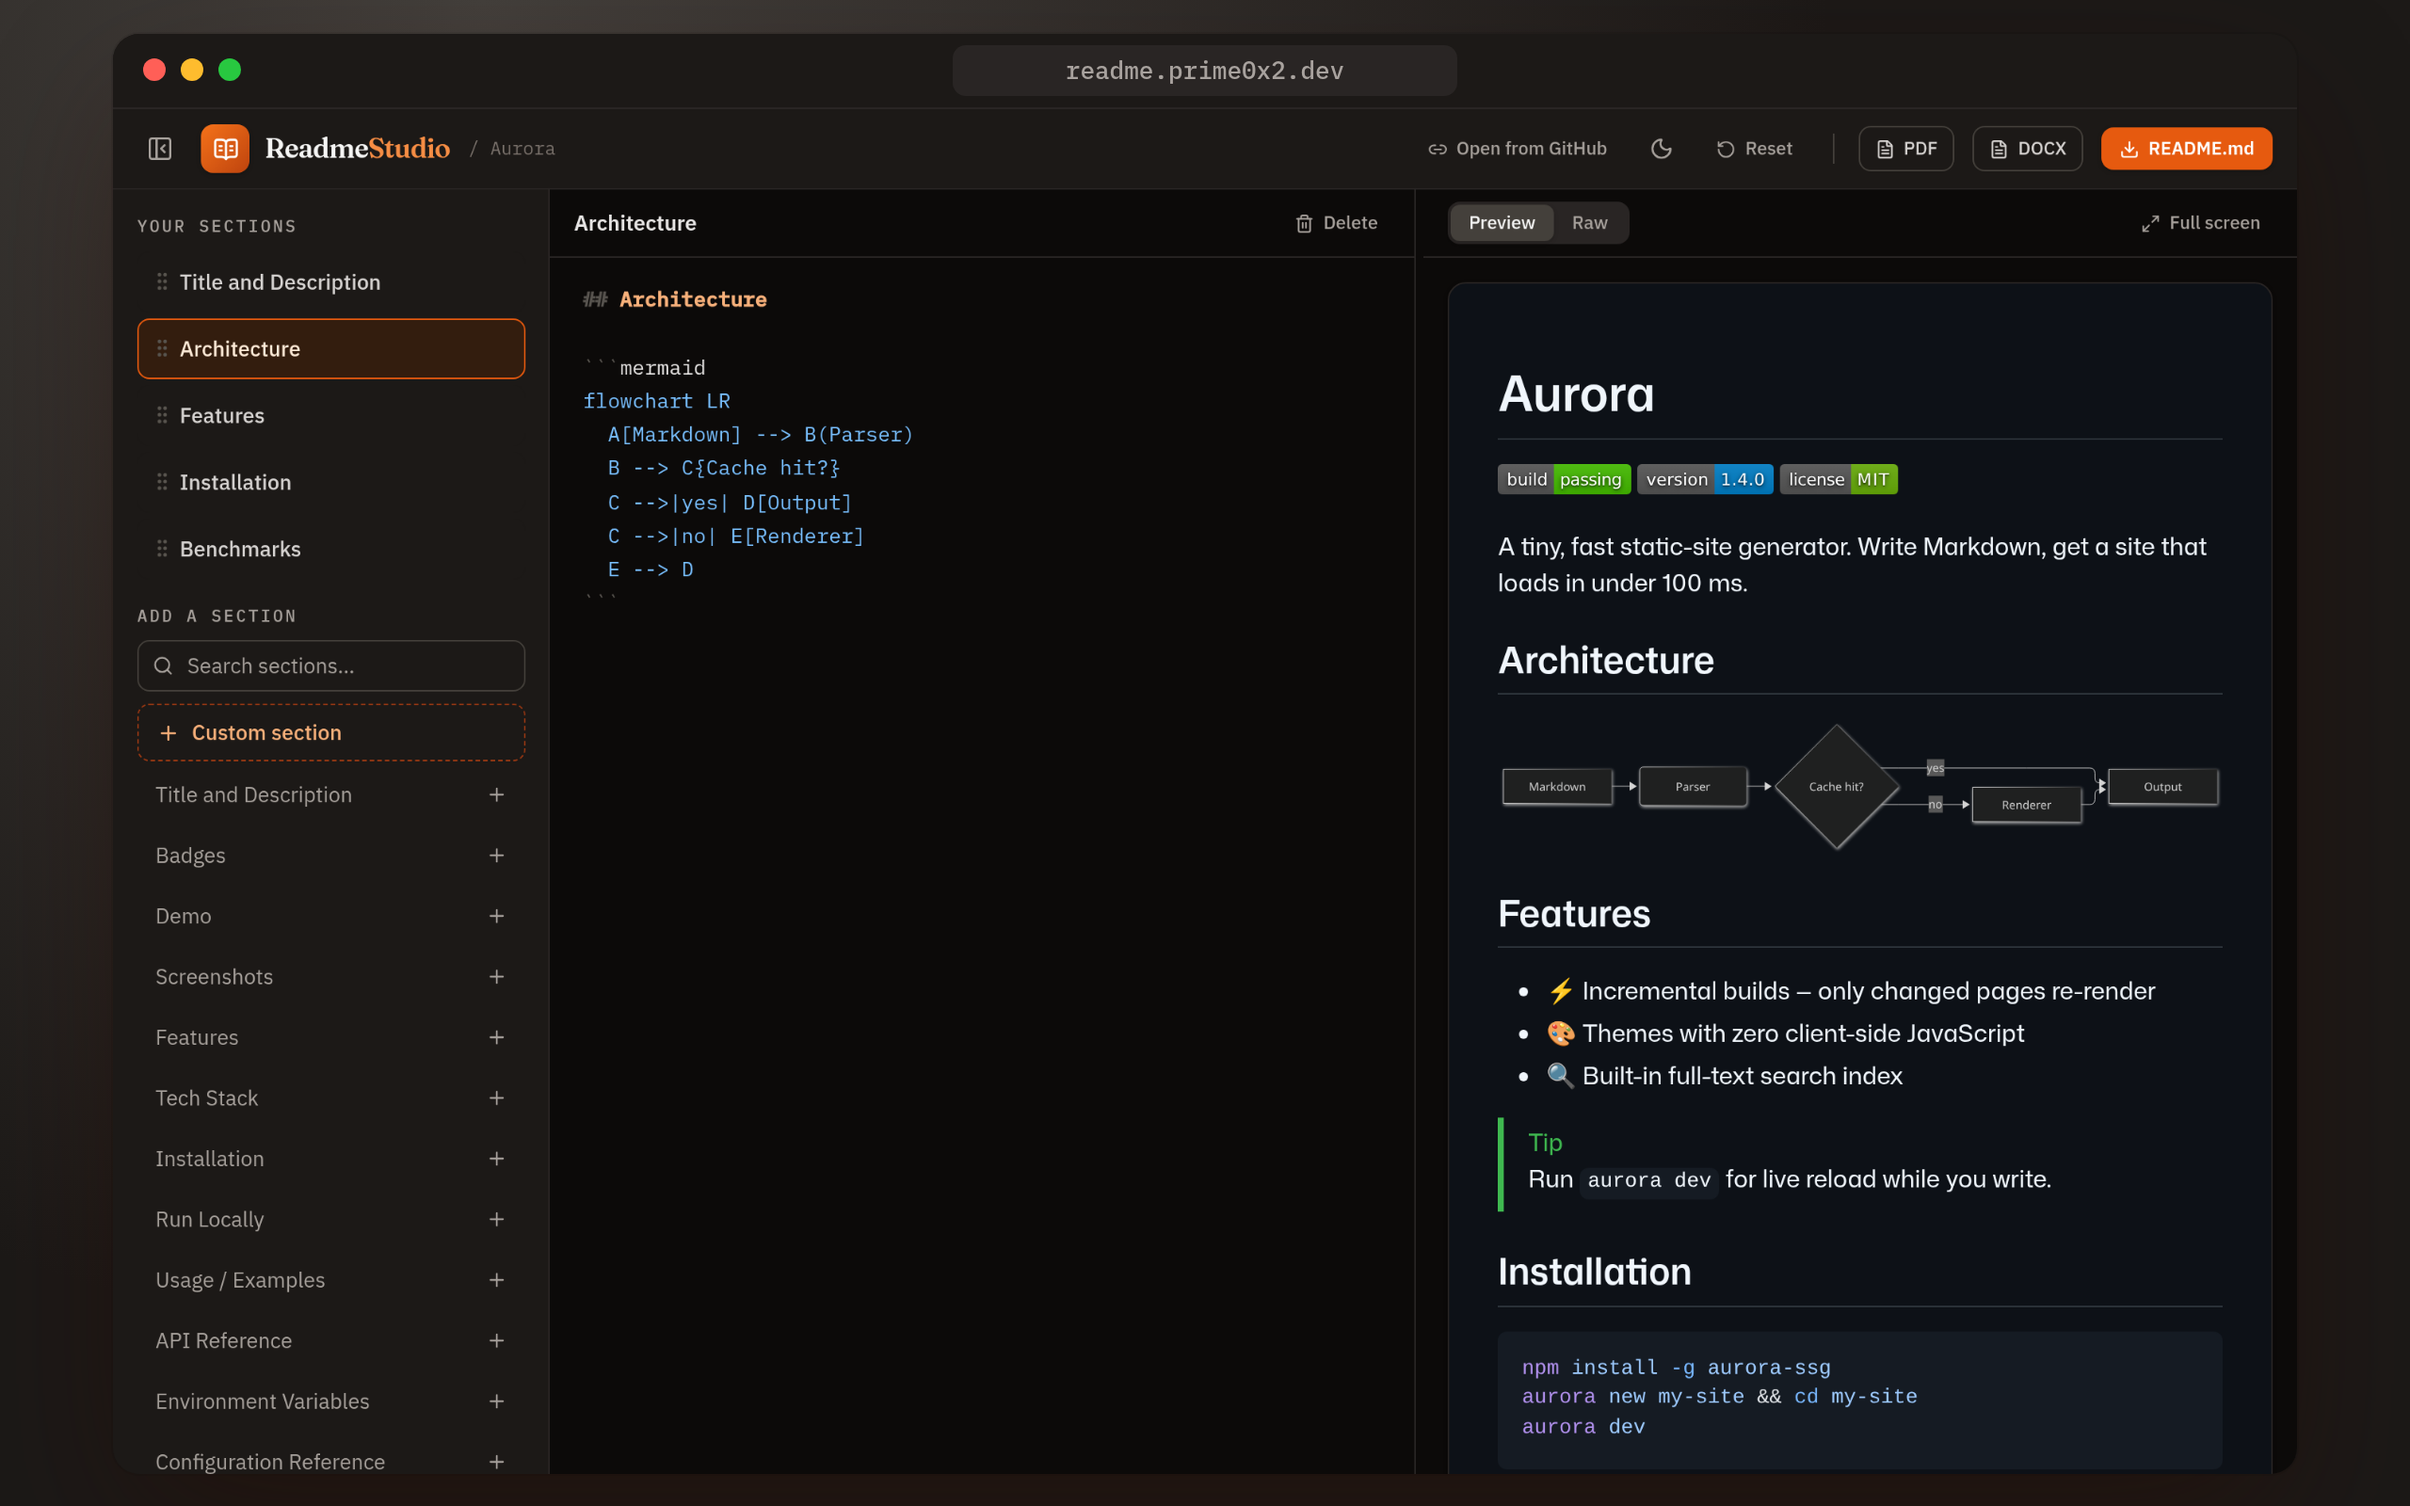
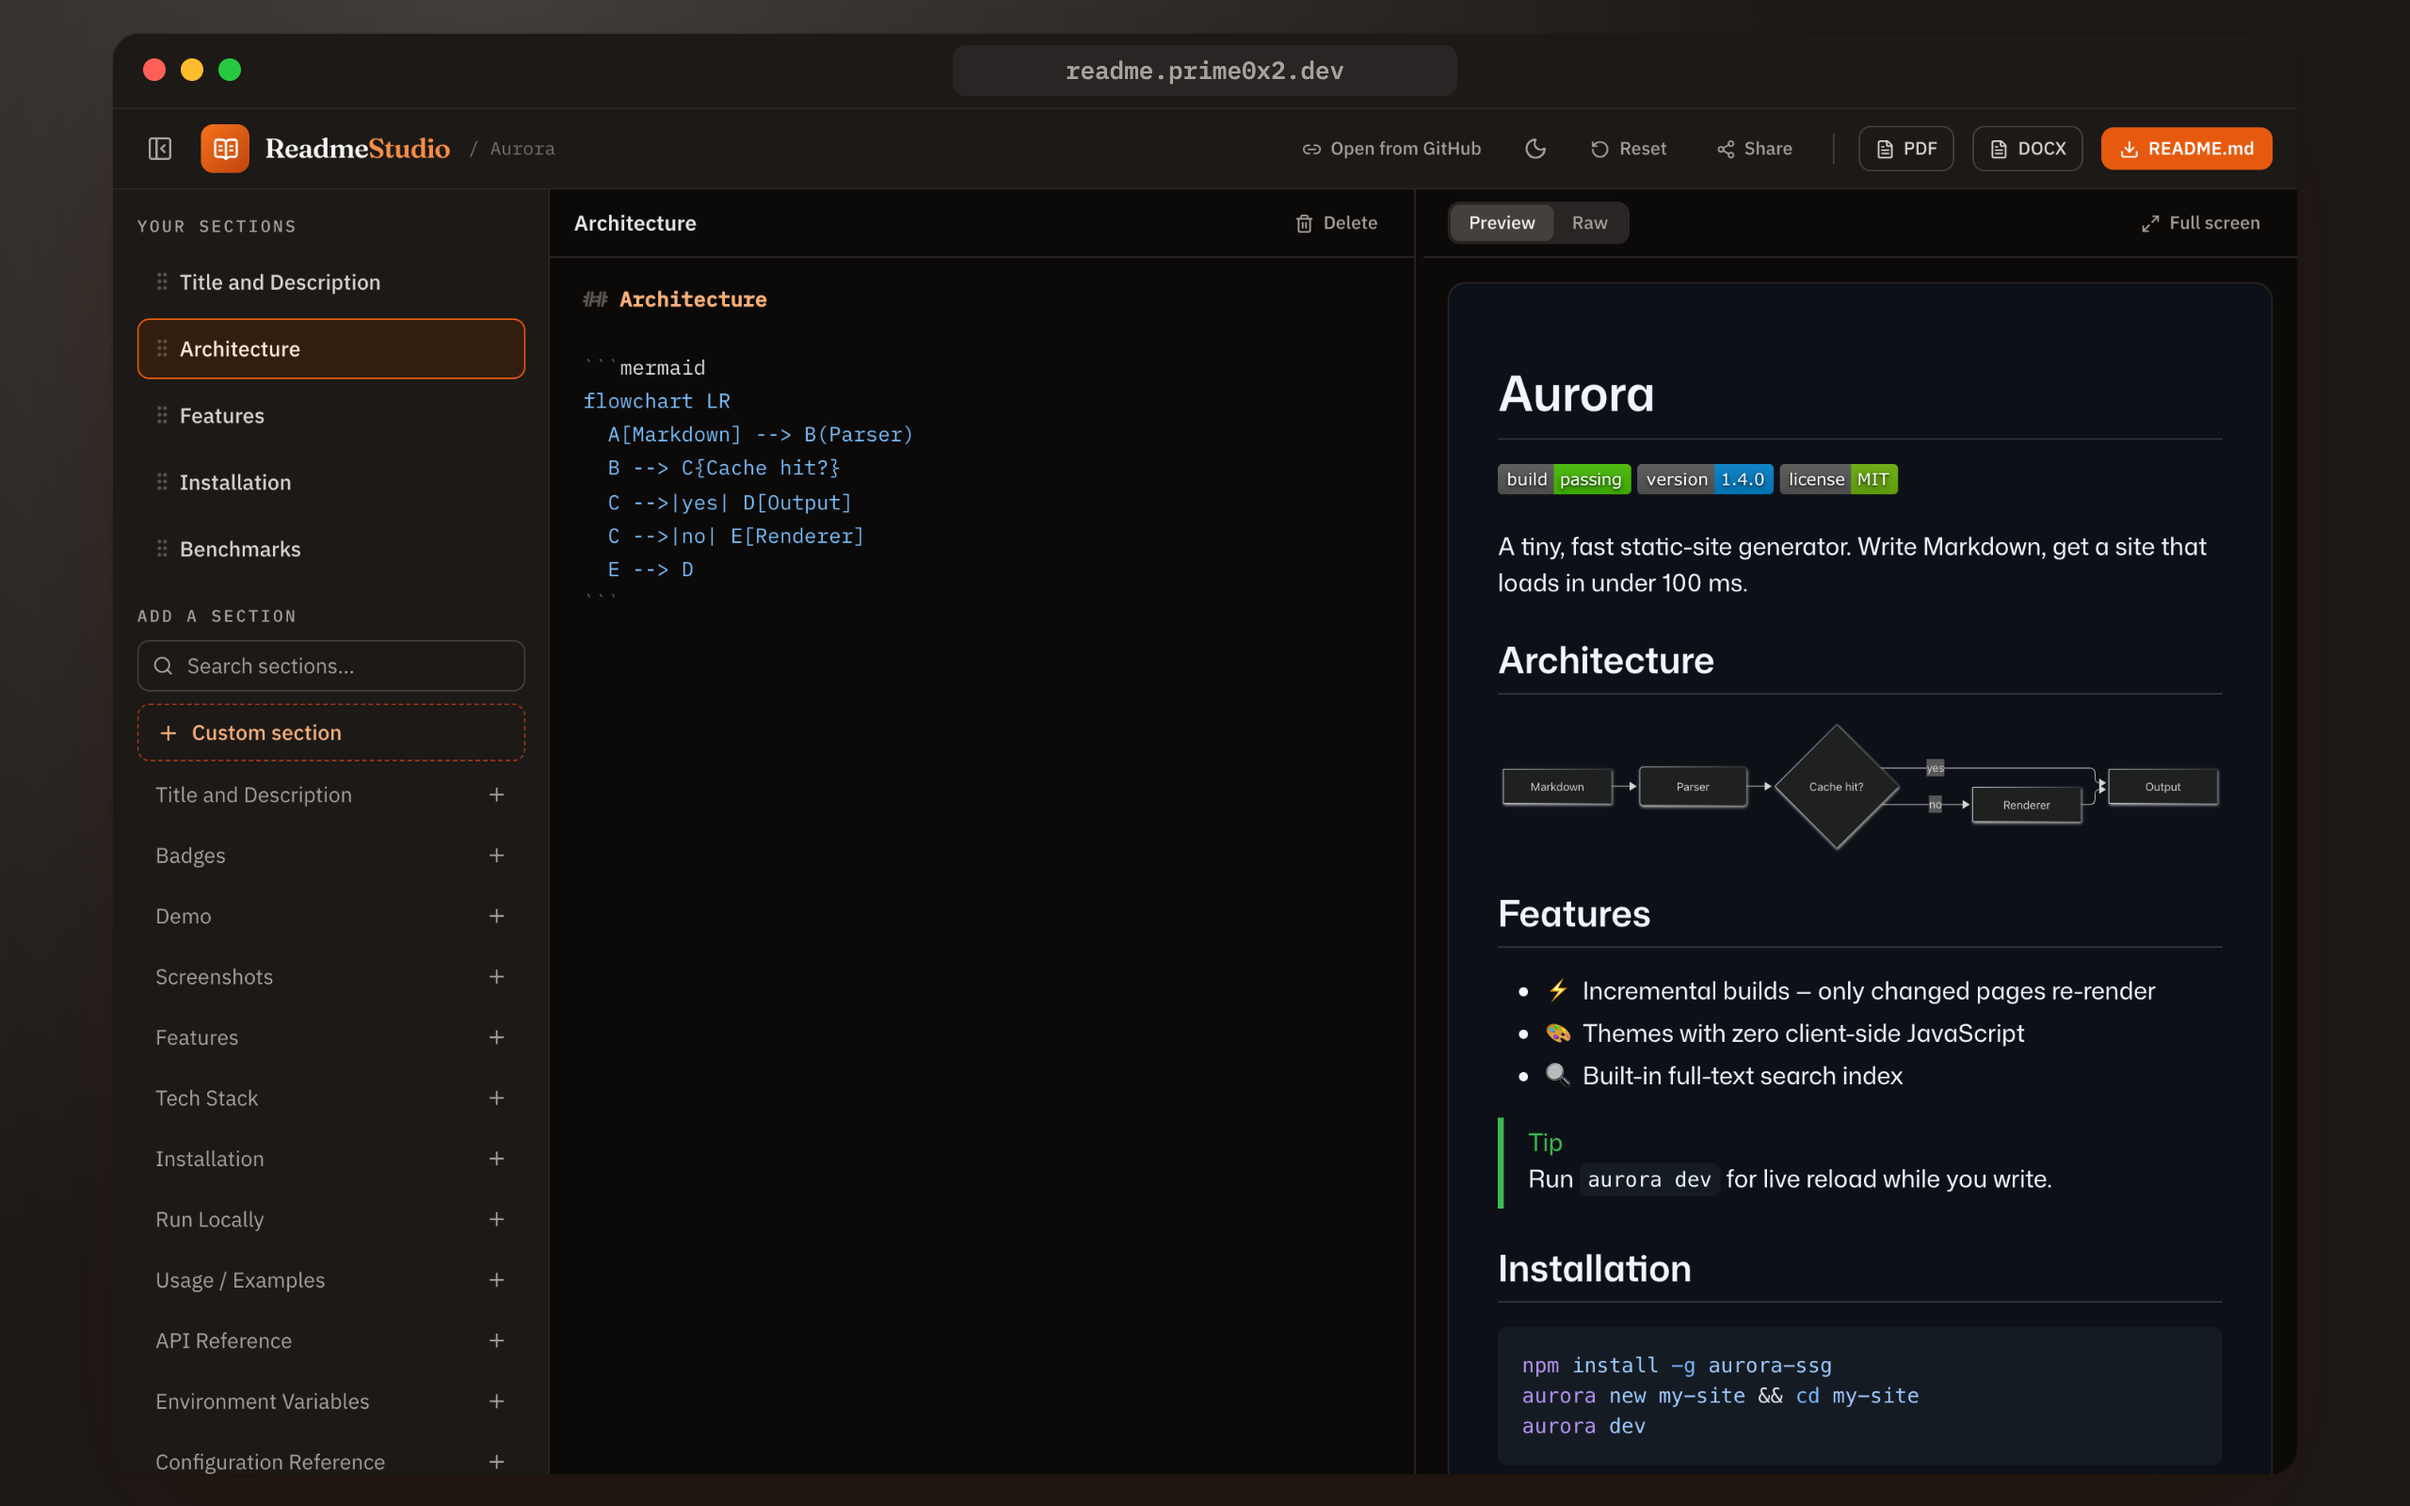
chore(release): v2.1.0
- Changelog: release the Unreleased section as 2.1.0
- README: add a share-links screenshot and regenerate the cover and cards
- Image script: create a share link against the local Worker for the card
- Make the husky pre-commit hook executable so it runs again

diff --git a/CHANGELOG.md b/CHANGELOG.md
@@ -2,7 +2,9 @@
 
 All notable changes to ReadmeStudio. Releases: <https://github.com/prime0x2/readme-studio/releases>
 
-## Unreleased
+## [2.1.0](https://github.com/prime0x2/readme-studio/releases/tag/v2.1.0) — 2026-10-15
+
+**Share without giving up privacy.** Send a README to anyone with a password-protected link that's encrypted before it leaves your browser. The editor also starts from a blank page now, and never leaves you without a section to type in.
 
 ### ✨ New
 
@@ -12,6 +14,10 @@ All notable changes to ReadmeStudio. Releases: <https://github.com/prime0x2/read
 
 - **Start from a blank page.** New documents open with one empty section instead of the Title and Description template; templates are still a click away in the sidebar. A blank section names itself after its first heading as you type.
 - **The editor never runs out of sections.** Deleting the last section leaves a fresh blank one, so you can keep typing even with the sidebar hidden. Deleting a section now shows an **Undo** button.
+
+### 📦 Under the hood
+
+- Fixed all open Dependabot alerts: Mermaid 12.2 (which brings KaTeX 0.18), wrangler 4.151, and a patched `source-map-js` for the dev tooling.
 
 ## [2.0.0](https://github.com/prime0x2/readme-studio/releases/tag/v2.0.0) — 2026-09-27
 

diff --git a/README.md b/README.md
@@ -62,6 +62,12 @@ ReadmeStudio keeps the section-based editor and makes the **exports first-class*
     <td align="center"><sub>Dark mode, with a live Mermaid diagram</sub></td>
     <td align="center"><sub>The exported PDF: vector text, diagrams and tables</sub></td>
   </tr>
+  <tr>
+    <td colspan="2"><img src=".github/assets/share-links.png" alt="The Share dialog with a new link, and the password prompt the recipient sees"></td>
+  </tr>
+  <tr>
+    <td colspan="2" align="center"><sub>Password-protected share links, encrypted in your browser</sub></td>
+  </tr>
 </table>
 
 ## 🔗 Share any GitHub README
